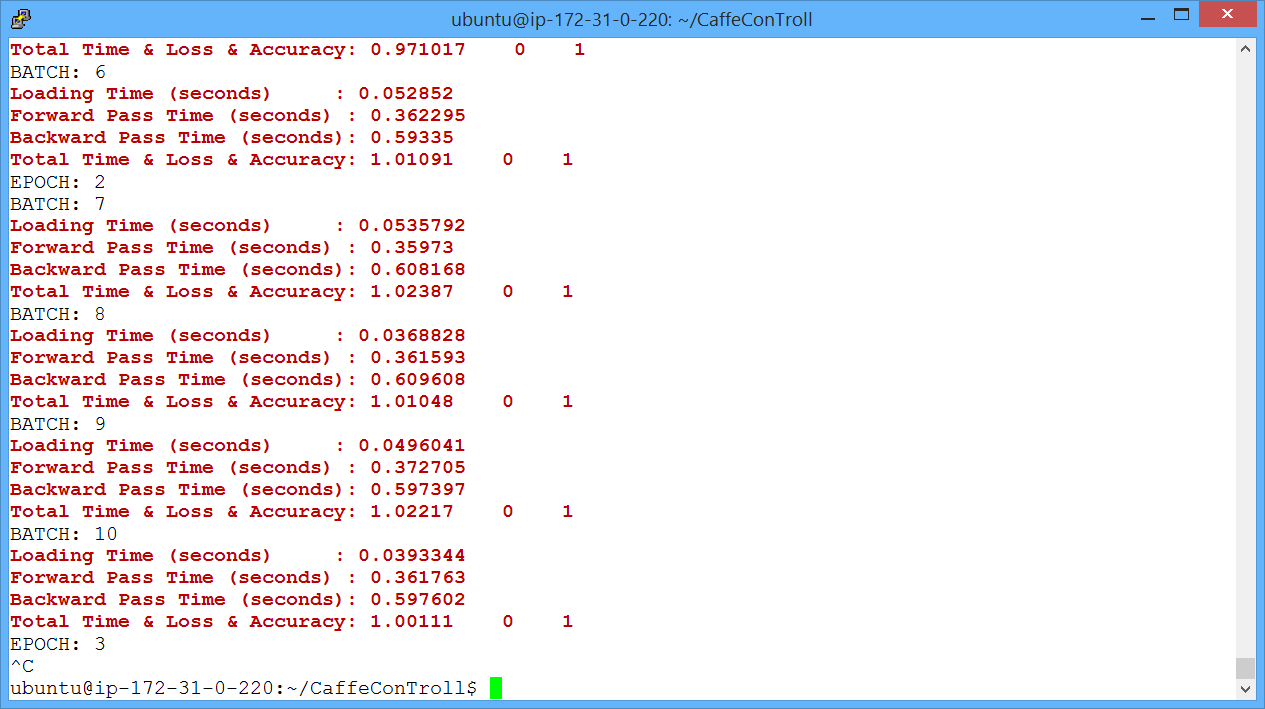
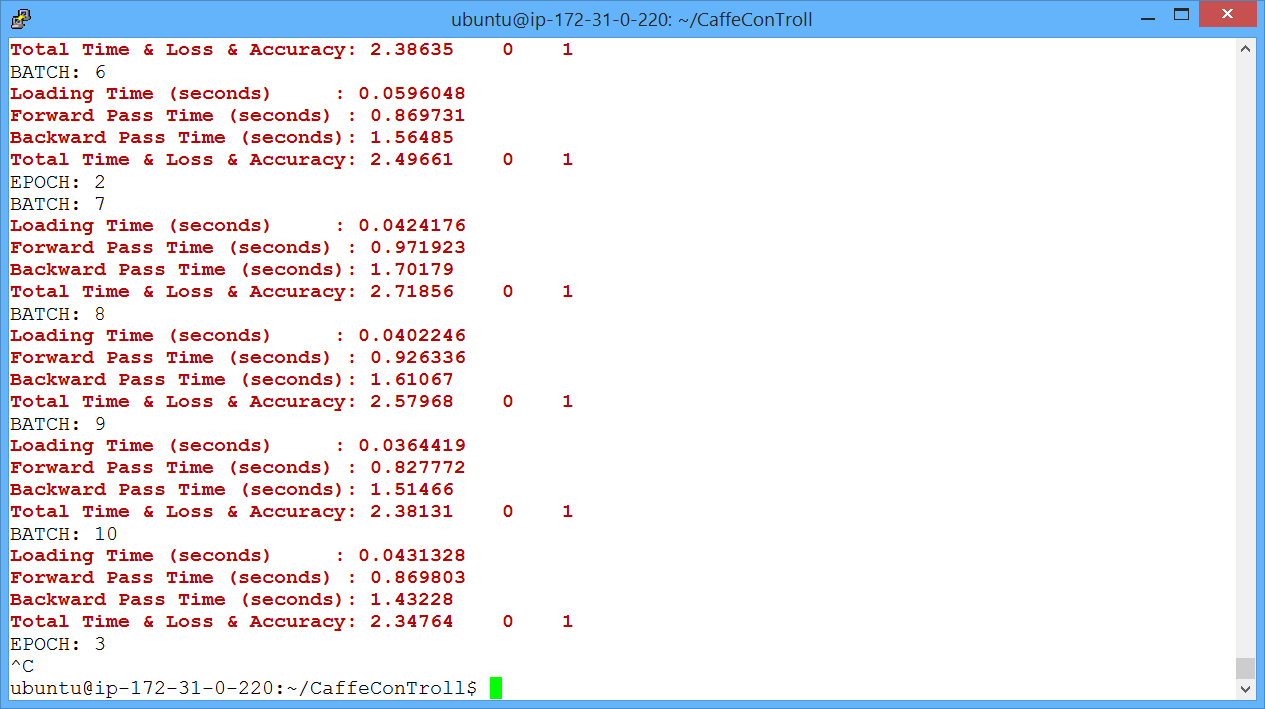
Update readme with new figures

diff --git a/README.md b/README.md
@@ -109,18 +109,25 @@ Argument description:
 - Pass -b (optional) which tells CCT where to write the preprocessed data binary
 - Pass -o (optional) which tells CCT where to write the output model binary
 
-Notice that a forwards + backwards iteration, including gradient updates, takes 2.7s.
+Notice that a forwards + backwards iteration, including gradient updates, takes 2.75s.
 
 <img src="docs/figures/screenshot2.png" height="400" >
 
-Next, run with 4 GPUs. The command is the same, except for a different prototxt file which
-specifies that 4 GPUs should be used.
+Next, run with 1 GPU as well as the CPU. The command is the same, except for a different prototxt file which
+specifies that the CPU should also be used:
 
-> `./caffe-ct train tests/imagenet_train/solver/alexnet_solver_4GPU.prototxt -b tests/imgnet_toprocess.bin -o tests/model.bin`
+> `./caffe-ct train tests/imagenet_train/solver/alexnet_solver_1GPU_CPU.prototxt -b tests/imgnet_toprocess.bin -o tests/model.bin`
 
 <img src="docs/figures/screenshot3.png" height="400" >
 
-Notice a speedup of 2.7x on the current AMI. Further speedups on this 4 GPU instance will be available following
+Finally, run with 4 GPUs. Once again the command is the same, except for a different prototxt file which
+specifies that 4 GPUs should be used:
+
+> `./caffe-ct train tests/imagenet_train/solver/alexnet_solver_4GPU.prototxt -b tests/imgnet_toprocess.bin -o tests/model.bin`
+
+<img src="docs/figures/screenshot4.png" height="400" >
+
+Notice a > 3x speedup on the current AMI. A speedup of 4x on this 4 GPU instance will be available following
 the completion of the model update portion of the distributed CCT project.
 
 
@@ -170,5 +177,4 @@ Known Issues
 Contact
 -------
 
-Send flames to Chris and praise to those who did the actual work:
-Firas Abuzaid, Shubham Gupta, Stefan Hadjis, and Ce Zhang.
+Send flames to Chris, questions to the current team, Stefan Hadjis, Ce Zhang, and Chris, and praise to past members who built CcT, Firas Abuzaid and Shubham Gupta.
